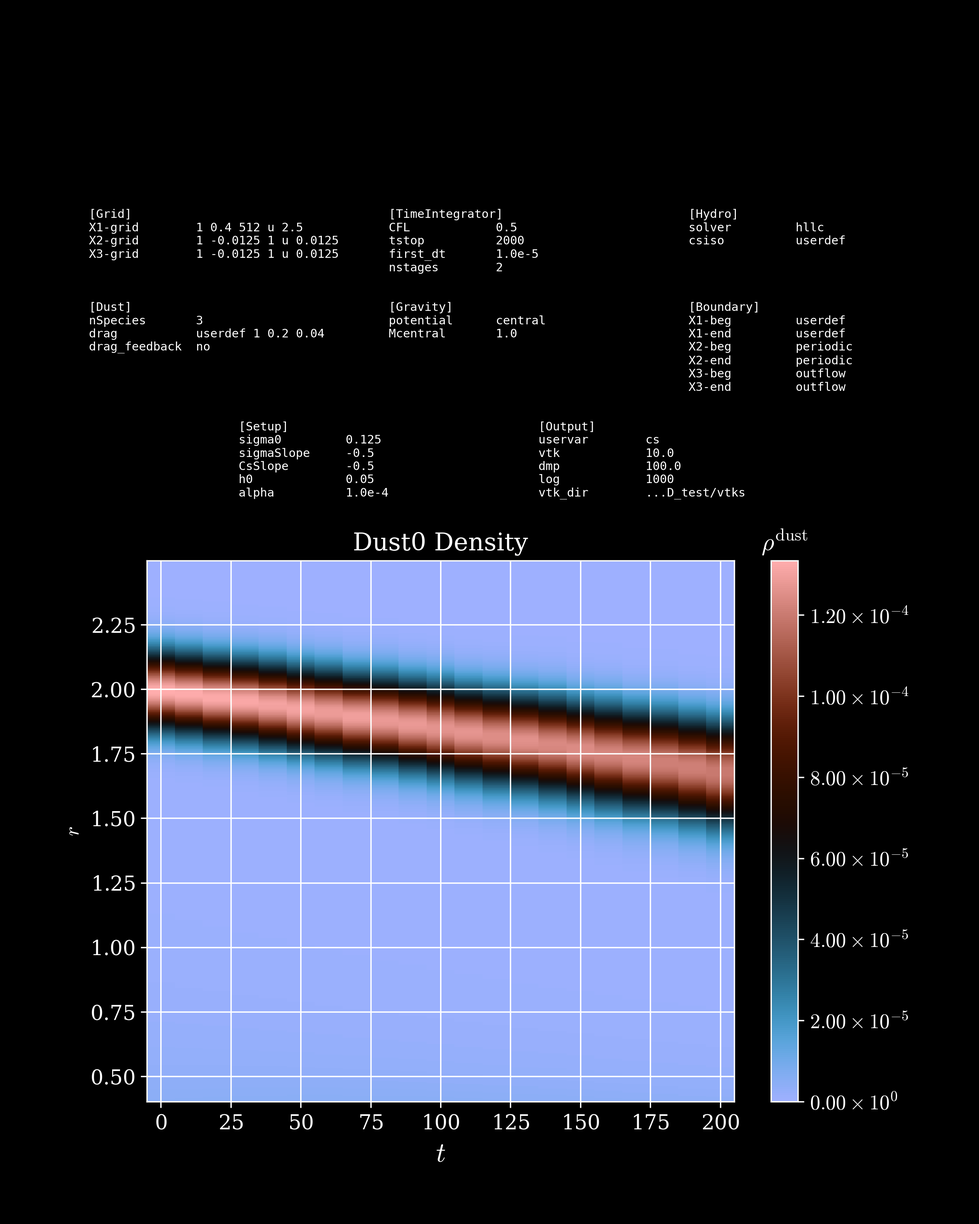
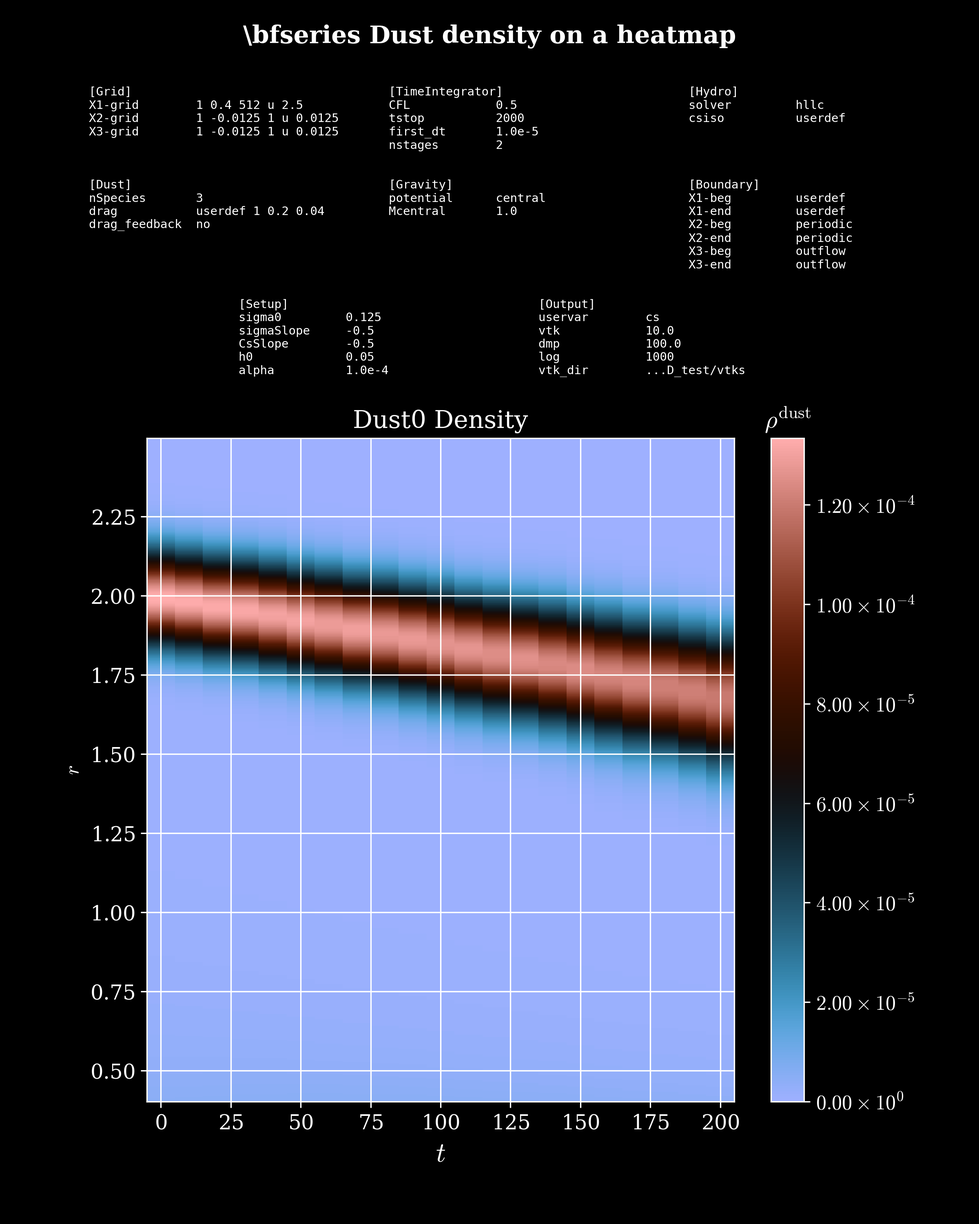
deploy: 61846a8da2c2e66f1332ff17975810d5fbedde24

diff --git a/searchindex.js b/searchindex.js
@@ -1,1 +1,1 @@
-Search.setIndex({"alltitles":{"1D fields":[[2,null]],"2D fields":[[3,null]],"API Reference":[[0,null]],"Adding a reference line":[[2,"adding-a-reference-line"]],"Examples Gallery":[[1,null]],"Idefix2Python":[[6,null]],"Particle quantities":[[4,null]],"Particle quantities over heatmap":[[5,null]],"Pipeline":[[0,"pipeline"]],"Quantity Types":[[0,"quantity-types"]],"RunContext":[[0,"runcontext"]]},"docnames":["api","examples","examples/run_1D","examples/run_2D","examples/run_particles","examples/run_particles_over","index"],"envversion":{"sphinx":66,"sphinx.domains.c":3,"sphinx.domains.changeset":1,"sphinx.domains.citation":1,"sphinx.domains.cpp":9,"sphinx.domains.index":1,"sphinx.domains.javascript":3,"sphinx.domains.math":2,"sphinx.domains.python":4,"sphinx.domains.rst":2,"sphinx.domains.std":2,"sphinx.ext.viewcode":1},"filenames":["api.rst","examples.rst","examples/run_1D.rst","examples/run_2D.rst","examples/run_particles.rst","examples/run_particles_over.rst","index.rst"],"indexentries":{"linemovie1d (class in idefix2python)":[[0,"idefix2python.LineMovie1D",false]],"mapmovie2d (class in idefix2python)":[[0,"idefix2python.MapMovie2D",false]],"partquantity (class in idefix2python)":[[0,"idefix2python.PartQuantity",false]],"pipeline (class in idefix2python)":[[0,"idefix2python.Pipeline",false]],"run() (idefix2python.pipeline method)":[[0,"idefix2python.Pipeline.run",false]],"runcontext (class in idefix2python)":[[0,"idefix2python.RunContext",false]],"spacetimeheatmap (class in idefix2python)":[[0,"idefix2python.SpaceTimeHeatmap",false]]},"objects":{"idefix2python":[[0,0,1,"","LineMovie1D"],[0,0,1,"","MapMovie2D"],[0,0,1,"","PartQuantity"],[0,0,1,"","Pipeline"],[0,0,1,"","RunContext"],[0,0,1,"","SpaceTimeHeatmap"]],"idefix2python.Pipeline":[[0,1,1,"","run"]]},"objnames":{"0":["py","class","Python class"],"1":["py","method","Python method"]},"objtypes":{"0":"py:class","1":"py:method"},"terms":{"1d":1,"1d_test":2,"1d_test_spacetimeheatmap":2,"1d_test_withref":2,"1e":3,"2d":[0,1],"2d_test":3,"5e":2,"A":[2,6],"By":[0,2,4,5],"Each":2,"For":[0,2],"Here":1,"In":5,"On":2,"The":[0,3],"There":3,"This":3,"__file__":[2,3,4,5],"_p":3,"activ":0,"active_direct":[0,4,5],"add":3,"addit":0,"also":3,"ambipolarwind":3,"analyt":2,"analytical_drift":4,"analytical_trajectori":[2,5],"analyz":1,"anim":0,"arg":0,"argument":[0,3],"astrophys":6,"automat":3,"avail":0,"azsettl":5,"base":0,"basic":1,"becaus":3,"berlin":0,"bound":3,"can":2,"class":0,"cmap":[0,3],"code":[3,6],"color":5,"colorbar":3,"colormap":[0,3],"com":3,"complex":1,"comput":3,"compute_mach_p":3,"config":3,"configpath":[0,3],"configur":0,"contain":[0,5],"context":0,"contour":[1,3],"contour_color":3,"cool":3,"coordin":0,"creat":3,"creation":0,"cs2":3,"current":[0,4,5],"custom":0,"custom_fields2d":3,"custom_linemovie1d":2,"custom_partquant":[4,5],"custom_spacetimeheatmap":2,"cyan":5,"data":[0,3,5],"data_test":[2,3,4,5],"def":[2,3,4,5],"default":[0,2,4,5],"demonstr":3,"densiti":[2,3],"depend":1,"detect":0,"differ":3,"dimens":[0,2],"direct":0,"directori":0,"draw":3,"dust":[2,5],"dust0":2,"dust0_rho":[2,5],"e":2,"end":0,"entir":2,"everi":0,"evolut":2,"exampl":[3,5,6],"expect":[0,2,4,5],"explor":1,"f":[0,2],"field":[0,1],"field1d":0,"figur":2,"file":[0,3],"first":0,"fix":3,"fluid":[2,4,5],"folder":[0,5],"frame":[0,2],"framefold":[0,2],"g":2,"galleri":6,"geometri":0,"github":[3,6],"good":3,"green":3,"handl":0,"heatmap":[0,1,2],"https":3,"idefix":[3,6],"idefix2python":[0,2,3,4,5],"import":[2,3,4,5],"includ":3,"inferno":3,"ini":0,"inipath":0,"initi":0,"input":0,"integr":[2,4],"json":3,"key":0,"keyword":0,"kwarg":0,"lagrangian":[0,1,4,5],"line":0,"linear":0,"linemovie1d":[0,2],"list":0,"locat":0,"log":3,"look":3,"ls":5,"lw":5,"m":3,"mach":3,"mach_p":3,"map":1,"mapmovie2d":[0,3],"master":3,"mathcal":3,"mathrm":[2,5],"maximum":3,"mhd":3,"might":3,"minimum":3,"movi":2,"movies1d":[0,2],"movies2d":[0,3],"name":0,"natur":1,"necessari":[4,5],"none":0,"norm":[0,3],"np":3,"number":3,"numpi":3,"object":[0,2],"one":2,"option":0,"output":[0,2,4,5,6],"overlay":0,"page":3,"paramet":0,"parent":[2,3,4,5],"part":5,"part_x1":4,"part_x3":5,"partfold":0,"particl":[0,1,3],"particles_over_test":5,"particles_over_test_spacetimeheatmap":5,"particles_test":4,"particles_test_timeseri":4,"partquant":[0,4,5],"pass":[2,3],"path":[0,2,3,4,5],"pathlib":[2,3,4,5],"pcolormesh":0,"pipelin":[1,2,3,4,5],"plot":0,"plot_coord":[0,2,3,4,5],"plot_kwarg":5,"png":[2,4,5],"poloid":3,"pray":0,"profil":1,"program":6,"project":0,"projectpath":[0,2,3,4,5],"projetpath":[2,4,5],"properti":0,"prs":3,"python":6,"quantiti":[1,3],"r":[2,3,4,5],"r0":[2,4],"radial":1,"ref_funct":[2,4,5],"render":[0,2],"result":3,"return":[2,3,4,5],"rho":[2,3,5],"root":0,"run":[0,2,3,4,5],"runcontext":[2,3,4,5],"runnam":0,"see":3,"setup":3,"show":2,"simul":[0,3],"singl":2,"solve_2nd_order_od":5,"sourc":0,"space":[0,1,2],"spacetimeheatmap":[0,2,5],"spatial":0,"specif":[0,2],"sqrt":3,"stokes0":[2,4,5],"store":0,"str":0,"streamlin":[0,1,3],"superimpos":1,"symbol":0,"t":[0,1,2,5],"t_array":4,"t_i":2,"taken":3,"task":[2,3,4,5],"test":3,"thing":0,"three":1,"time":[0,1,2],"titl":[2,3],"trace_ov":[0,5],"track":0,"trajectori":[0,1,2],"tree":3,"two":3,"uniqu":0,"updat":0,"use":1,"util":[2,4,5],"valu":3,"veri":3,"visual":[1,3],"vizual":6,"vmax":[0,2,3],"vmin":[0,2,3],"vrdrift":[2,4],"vtk":[0,5,6],"vtks":[0,2,4,5],"vx1":3,"vx2":3,"want":3,"way":[2,3],"will":0,"x":[0,1,2,4],"z":[0,5],"z0":5,"z_part":5,"zoom":0},"titles":["API Reference","Examples Gallery","1D fields","2D fields","Particle quantities","Particle quantities over heatmap","Idefix2Python"],"titleterms":{"1d":2,"2d":3,"add":2,"api":0,"exampl":1,"field":[2,3],"galleri":1,"heatmap":5,"idefix2python":6,"line":2,"particl":[4,5],"pipelin":0,"quantiti":[0,4,5],"refer":[0,2],"runcontext":0,"type":0}})
+Search.setIndex({"alltitles":{"1D fields":[[2,null]],"2D fields":[[3,null]],"API Reference":[[0,null]],"Adding a reference line":[[2,"adding-a-reference-line"]],"Examples Gallery":[[1,null]],"Idefix2Python":[[6,null]],"Particle quantities":[[4,null]],"Particle quantities over heatmap":[[5,null]],"Pipeline":[[0,"pipeline"]],"Quantity Types":[[0,"quantity-types"]],"RunContext":[[0,"runcontext"]]},"docnames":["api","examples","examples/run_1D","examples/run_2D","examples/run_particles","examples/run_particles_over","index"],"envversion":{"sphinx":66,"sphinx.domains.c":3,"sphinx.domains.changeset":1,"sphinx.domains.citation":1,"sphinx.domains.cpp":9,"sphinx.domains.index":1,"sphinx.domains.javascript":3,"sphinx.domains.math":2,"sphinx.domains.python":4,"sphinx.domains.rst":2,"sphinx.domains.std":2,"sphinx.ext.viewcode":1},"filenames":["api.rst","examples.rst","examples/run_1D.rst","examples/run_2D.rst","examples/run_particles.rst","examples/run_particles_over.rst","index.rst"],"indexentries":{"linemovie1d (class in idefix2python)":[[0,"idefix2python.LineMovie1D",false]],"mapmovie2d (class in idefix2python)":[[0,"idefix2python.MapMovie2D",false]],"partquantity (class in idefix2python)":[[0,"idefix2python.PartQuantity",false]],"pipeline (class in idefix2python)":[[0,"idefix2python.Pipeline",false]],"run() (idefix2python.pipeline method)":[[0,"idefix2python.Pipeline.run",false]],"runcontext (class in idefix2python)":[[0,"idefix2python.RunContext",false]],"spacetimeheatmap (class in idefix2python)":[[0,"idefix2python.SpaceTimeHeatmap",false]]},"objects":{"idefix2python":[[0,0,1,"","LineMovie1D"],[0,0,1,"","MapMovie2D"],[0,0,1,"","PartQuantity"],[0,0,1,"","Pipeline"],[0,0,1,"","RunContext"],[0,0,1,"","SpaceTimeHeatmap"]],"idefix2python.Pipeline":[[0,1,1,"","run"]]},"objnames":{"0":["py","class","Python class"],"1":["py","method","Python method"]},"objtypes":{"0":"py:class","1":"py:method"},"terms":{"1d":1,"1d_test":2,"1d_test_spacetimeheatmap":2,"1d_test_withref":2,"1e":3,"2d":[0,1],"2d_test":3,"5e":2,"A":[2,4,6],"By":[0,2,4,5],"Each":2,"For":[0,2],"Here":1,"In":5,"On":2,"The":[0,3],"There":3,"This":3,"__file__":[2,3,4,5],"_p":3,"activ":0,"active_direct":[0,4,5],"add":3,"addit":0,"also":3,"ambipolarwind":3,"analyt":[2,4,5],"analytical_drift":4,"analytical_trajectori":[2,5],"analyz":1,"anim":0,"arg":0,"argument":[0,3],"astrophys":6,"automat":3,"avail":0,"azsettl":5,"base":0,"basic":1,"beauti":3,"becaus":3,"berlin":0,"bound":3,"can":2,"class":0,"cmap":[0,3],"code":[3,6],"color":5,"colorbar":3,"colormap":[0,3],"com":3,"complex":1,"comput":3,"compute_mach_p":3,"config":3,"configpath":[0,3],"configur":0,"contain":[0,5],"context":0,"contour":[1,3],"contour_color":3,"cool":3,"coordin":0,"creat":3,"creation":0,"cs2":3,"current":[0,4,5],"custom":0,"custom_fields2d":3,"custom_linemovie1d":2,"custom_partquant":[4,5],"custom_spacetimeheatmap":2,"cyan":5,"data":[0,3,5],"data_test":[2,3,4,5],"def":[2,3,4,5],"default":[0,2,4,5],"demonstr":3,"densiti":[2,3,5],"depend":1,"detect":0,"differ":3,"dimens":[0,2],"direct":0,"directori":0,"draw":3,"dust":[2,5],"dust0":2,"dust0_rho":[2,5],"e":2,"end":0,"entir":2,"everi":0,"evolut":[2,4],"exampl":[3,5,6],"expect":[0,2,4,5],"explor":1,"f":[0,2],"field":[0,1],"field1d":0,"figur":2,"file":[0,3],"first":0,"fix":3,"fluid":[2,4,5],"folder":[0,5],"frame":[0,2],"framefold":[0,2],"g":2,"galleri":6,"geometri":0,"github":[3,6],"good":3,"green":3,"handl":0,"heatmap":[0,1,2,3],"https":3,"idefix":[3,6],"idefix2python":[0,2,3,4,5],"import":[2,3,4,5],"includ":3,"inferno":3,"ini":0,"inipath":0,"initi":0,"input":0,"integr":[2,4],"json":3,"key":0,"keyword":0,"kwarg":0,"lagrangian":[0,1,4,5],"line":0,"linear":0,"linemovie1d":[0,2],"list":0,"locat":0,"log":3,"look":3,"ls":5,"lw":5,"m":3,"mach":3,"mach_p":3,"map":1,"mapmovie2d":[0,3],"master":3,"mathcal":3,"mathrm":[2,5],"maximum":3,"mhd":3,"might":3,"minimum":3,"movi":2,"movies1d":[0,2],"movies2d":[0,3],"name":0,"natur":1,"necessari":[4,5],"none":0,"norm":[0,3],"np":3,"number":3,"numpi":3,"object":[0,2],"one":2,"option":0,"output":[0,2,4,5,6],"overlay":0,"page":3,"paramet":0,"parent":[2,3,4,5],"part":5,"part_x1":4,"part_x3":5,"partfold":0,"particl":[0,1,3],"particles_over_test":5,"particles_over_test_spacetimeheatmap":5,"particles_test":4,"particles_test_timeseri":4,"partquant":[0,4,5],"pass":[2,3],"path":[0,2,3,4,5],"pathlib":[2,3,4,5],"pcolormesh":0,"pipelin":[1,2,3,4,5],"plot":0,"plot_coord":[0,2,3,4,5],"plot_kwarg":5,"png":[2,4,5],"poloid":3,"pray":0,"presureless":5,"profil":[1,2],"program":6,"project":0,"projectpath":[0,2,3,4,5],"projetpath":[2,4,5],"properti":0,"prs":3,"python":6,"quantiti":[1,3],"r":[2,3,4,5],"r0":[2,4],"radial":[1,4],"ref_funct":[2,4,5],"render":[0,2],"result":3,"return":[2,3,4,5],"rho":[2,3,5],"root":0,"run":[0,2,3,4,5],"runcontext":[2,3,4,5],"runnam":0,"see":3,"setup":3,"show":2,"simul":[0,3],"singl":2,"solve_2nd_order_od":5,"sourc":0,"space":[0,1,2],"spacetimeheatmap":[0,2,5],"spatial":0,"specif":[0,2],"sqrt":3,"stokes0":[2,4,5],"store":0,"str":0,"streamlin":[0,1,3],"superimpos":1,"suptitl":[2,3,4,5],"symbol":0,"t":[0,1,2,5],"t_array":4,"t_i":2,"taken":3,"task":[2,3,4,5],"test":3,"thing":0,"three":1,"time":[0,1,2],"titl":[2,3],"trace_ov":[0,5],"track":0,"trajectori":[0,1,2,4,5],"tree":3,"two":3,"uniqu":0,"updat":0,"use":1,"util":[2,4,5],"valu":3,"veri":3,"visual":[1,3],"vizual":6,"vmax":[0,2,3],"vmin":[0,2,3],"vrdrift":[2,4],"vtk":[0,5,6],"vtks":[0,2,4,5],"vx1":3,"vx2":3,"want":3,"way":[2,3],"will":0,"x":[0,1,2],"z":[0,5],"z0":5,"z_part":5,"zoom":0},"titles":["API Reference","Examples Gallery","1D fields","2D fields","Particle quantities","Particle quantities over heatmap","Idefix2Python"],"titleterms":{"1d":2,"2d":3,"add":2,"api":0,"exampl":1,"field":[2,3],"galleri":1,"heatmap":5,"idefix2python":6,"line":2,"particl":[4,5],"pipelin":0,"quantiti":[0,4,5],"refer":[0,2],"runcontext":0,"type":0}})

diff --git a/examples/run_1D.html b/examples/run_1D.html
@@ -145,10 +145,11 @@ Movie 1D</div>
 </span><span data-line="16"><span class="linenos">16</span>    <span class="p">)</span>
 </span><span data-line="17"><span class="linenos">17</span><span class="p">]</span>
 </span><span data-line="18"><span class="linenos">18</span>
-</span><span data-line="19"><span class="linenos">19</span><span class="n">runContext</span> <span class="o">=</span> <span class="n">RunContext</span><span class="p">(</span><span class="n">task</span><span class="p">,</span> <span class="n">projectPath</span><span class="p">)</span>
-</span><span data-line="20"><span class="linenos">20</span><span class="n">pipeline</span> <span class="o">=</span> <span class="n">Pipeline</span><span class="p">(</span><span class="n">runContext</span><span class="p">,</span> <span class="n">movies1D</span><span class="o">=</span><span class="n">custom_LineMovie1Ds</span><span class="p">)</span>
-</span><span data-line="21"><span class="linenos">21</span>
-</span><span data-line="22"><span class="linenos">22</span><span class="n">pipeline</span><span class="o">.</span><span class="n">run</span><span class="p">()</span>
+</span><span data-line="19"><span class="linenos">19</span><span class="n">LineMovie1D</span><span class="o">.</span><span class="n">suptitle</span> <span class="o">=</span> <span class="s2">&quot;Evolution of the density profile&quot;</span>
+</span><span data-line="20"><span class="linenos">20</span><span class="n">runContext</span> <span class="o">=</span> <span class="n">RunContext</span><span class="p">(</span><span class="n">task</span><span class="p">,</span> <span class="n">projectPath</span><span class="p">)</span>
+</span><span data-line="21"><span class="linenos">21</span><span class="n">pipeline</span> <span class="o">=</span> <span class="n">Pipeline</span><span class="p">(</span><span class="n">runContext</span><span class="p">,</span> <span class="n">movies1D</span><span class="o">=</span><span class="n">custom_LineMovie1Ds</span><span class="p">)</span>
+</span><span data-line="22"><span class="linenos">22</span>
+</span><span data-line="23"><span class="linenos">23</span><span class="n">pipeline</span><span class="o">.</span><span class="n">run</span><span class="p">()</span>
 </span></pre></div>
 </div>
 <div  class="sphinx-contrib-video-container align-left"><video autoplay="True" controls="True" loop="True" muted="True" preload="auto" width="600"><source src="../_images/1D_test.mp4" type="video/mp4"></video></div></div>
@@ -176,10 +177,10 @@ Space-Time Heatmap</div>
 </span><span data-line="14"><span class="linenos">14</span>    <span class="p">)</span>
 </span><span data-line="15"><span class="linenos">15</span><span class="p">]</span>
 </span><span data-line="16"><span class="linenos">16</span>
-</span><span data-line="17"><span class="linenos">17</span><span class="n">runContext</span> <span class="o">=</span> <span class="n">RunContext</span><span class="p">(</span><span class="n">task</span><span class="p">,</span> <span class="n">projectPath</span><span class="p">)</span>
+</span><span data-line="17"><span class="linenos">17</span><span class="n">SpaceTimeHeatmap</span><span class="o">.</span><span class="n">suptitle</span> <span class="o">=</span> <span class="s2">&quot;Dust density on a heatmap&quot;</span>
 </span><span data-line="18"><span class="linenos">18</span>
-</span><span data-line="19"><span class="linenos">19</span><span class="n">pipeline</span> <span class="o">=</span> <span class="n">Pipeline</span><span class="p">(</span><span class="n">runContext</span><span class="p">,</span> <span class="n">spaceTimeHeatmaps</span><span class="o">=</span><span class="n">custom_spaceTimeHeatmaps</span><span class="p">)</span>
-</span><span data-line="20"><span class="linenos">20</span>
+</span><span data-line="19"><span class="linenos">19</span><span class="n">runContext</span> <span class="o">=</span> <span class="n">RunContext</span><span class="p">(</span><span class="n">task</span><span class="p">,</span> <span class="n">projectPath</span><span class="p">)</span>
+</span><span data-line="20"><span class="linenos">20</span><span class="n">pipeline</span> <span class="o">=</span> <span class="n">Pipeline</span><span class="p">(</span><span class="n">runContext</span><span class="p">,</span> <span class="n">spaceTimeHeatmaps</span><span class="o">=</span><span class="n">custom_spaceTimeHeatmaps</span><span class="p">)</span>
 </span><span data-line="21"><span class="linenos">21</span><span class="n">pipeline</span><span class="o">.</span><span class="n">run</span><span class="p">()</span>
 </span></pre></div>
 </div>
@@ -219,17 +220,19 @@ Space-Time Heatmap</div>
 </span><span data-line="24"><span class="linenos">24</span>    <span class="p">)</span>
 </span><span data-line="25"><span class="linenos">25</span><span class="p">]</span>
 </span><span data-line="26"><span class="linenos">26</span>
-</span><span data-line="27"><span class="linenos">27</span><span class="n">runContext</span> <span class="o">=</span> <span class="n">RunContext</span><span class="p">(</span>
-</span><span data-line="28"><span class="linenos">28</span>    <span class="n">task</span><span class="p">,</span>
-</span><span data-line="29"><span class="linenos">29</span>    <span class="n">projectPath</span><span class="p">,</span>
-</span><span data-line="30"><span class="linenos">30</span>    <span class="n">frameFolder</span><span class="o">=</span><span class="s2">&quot;1D_test_withref&quot;</span><span class="p">,</span>
-</span><span data-line="31"><span class="linenos">31</span><span class="p">)</span>
-</span><span data-line="32"><span class="linenos">32</span><span class="n">pipeline</span> <span class="o">=</span> <span class="n">Pipeline</span><span class="p">(</span>
-</span><span data-line="33"><span class="linenos">33</span>    <span class="n">runContext</span><span class="p">,</span>
-</span><span data-line="34"><span class="linenos">34</span>    <span class="n">spaceTimeHeatmaps</span><span class="o">=</span><span class="n">custom_spaceTimeHeatmaps</span><span class="p">,</span>
-</span><span data-line="35"><span class="linenos">35</span><span class="p">)</span>
-</span><span data-line="36"><span class="linenos">36</span>
-</span><span data-line="37"><span class="linenos">37</span><span class="n">pipeline</span><span class="o">.</span><span class="n">run</span><span class="p">()</span>
+</span><span data-line="27"><span class="linenos">27</span><span class="n">SpaceTimeHeatmap</span><span class="o">.</span><span class="n">suptitle</span> <span class="o">=</span> <span class="s2">&quot;Dust density on heatmap, with an analytical trajectory&quot;</span>
+</span><span data-line="28"><span class="linenos">28</span>
+</span><span data-line="29"><span class="linenos">29</span><span class="n">runContext</span> <span class="o">=</span> <span class="n">RunContext</span><span class="p">(</span>
+</span><span data-line="30"><span class="linenos">30</span>    <span class="n">task</span><span class="p">,</span>
+</span><span data-line="31"><span class="linenos">31</span>    <span class="n">projectPath</span><span class="p">,</span>
+</span><span data-line="32"><span class="linenos">32</span>    <span class="n">frameFolder</span><span class="o">=</span><span class="s2">&quot;1D_test_withref&quot;</span><span class="p">,</span>
+</span><span data-line="33"><span class="linenos">33</span><span class="p">)</span>
+</span><span data-line="34"><span class="linenos">34</span><span class="n">pipeline</span> <span class="o">=</span> <span class="n">Pipeline</span><span class="p">(</span>
+</span><span data-line="35"><span class="linenos">35</span>    <span class="n">runContext</span><span class="p">,</span>
+</span><span data-line="36"><span class="linenos">36</span>    <span class="n">spaceTimeHeatmaps</span><span class="o">=</span><span class="n">custom_spaceTimeHeatmaps</span><span class="p">,</span>
+</span><span data-line="37"><span class="linenos">37</span><span class="p">)</span>
+</span><span data-line="38"><span class="linenos">38</span>
+</span><span data-line="39"><span class="linenos">39</span><span class="n">pipeline</span><span class="o">.</span><span class="n">run</span><span class="p">()</span>
 </span></pre></div>
 </div>
 <figure class="align-center" id="id1">

diff --git a/examples/run_2D.html b/examples/run_2D.html
@@ -153,9 +153,10 @@ Automatic Bounds</label><div class="sd-tab-content docutils">
 </span><span data-line="30"><span class="linenos">30</span>        <span class="n">contour_color</span><span class="o">=</span><span class="s2">&quot;green&quot;</span><span class="p">,</span>
 </span><span data-line="31"><span class="linenos">31</span>    <span class="p">),</span>
 </span><span data-line="32"><span class="linenos">32</span><span class="p">]</span>
-</span><span data-line="33"><span class="linenos">33</span><span class="n">runContext</span> <span class="o">=</span> <span class="n">RunContext</span><span class="p">(</span><span class="n">task</span><span class="p">,</span> <span class="n">projectPath</span><span class="p">)</span>
-</span><span data-line="34"><span class="linenos">34</span><span class="n">pipeline</span> <span class="o">=</span> <span class="n">Pipeline</span><span class="p">(</span><span class="n">runContext</span><span class="p">,</span> <span class="n">movies2D</span><span class="o">=</span><span class="n">custom_fields2D</span><span class="p">)</span>
-</span><span data-line="35"><span class="linenos">35</span><span class="n">pipeline</span><span class="o">.</span><span class="n">run</span><span class="p">()</span>
+</span><span data-line="33"><span class="linenos">33</span><span class="n">MapMovie2D</span><span class="o">.</span><span class="n">suptitle</span> <span class="o">=</span> <span class="s2">&quot;Density and Mach number on a heatmap&quot;</span>
+</span><span data-line="34"><span class="linenos">34</span><span class="n">runContext</span> <span class="o">=</span> <span class="n">RunContext</span><span class="p">(</span><span class="n">task</span><span class="p">,</span> <span class="n">projectPath</span><span class="p">)</span>
+</span><span data-line="35"><span class="linenos">35</span><span class="n">pipeline</span> <span class="o">=</span> <span class="n">Pipeline</span><span class="p">(</span><span class="n">runContext</span><span class="p">,</span> <span class="n">movies2D</span><span class="o">=</span><span class="n">custom_fields2D</span><span class="p">)</span>
+</span><span data-line="36"><span class="linenos">36</span><span class="n">pipeline</span><span class="o">.</span><span class="n">run</span><span class="p">()</span>
 </span></pre></div>
 </div>
 <figure  class="sphinx-contrib-video-container align-left"><video autoplay="True" controls="True" loop="True" muted="True" preload="auto" width="100%"><source src="../_images/2D_test.mp4" type="video/mp4"></video><figcaption class="align-center"><p style="text-align: left; display:inline-block"><span class="caption-text">2D_test.mp4</span></p></figcaption></figure><p>The result is not very good because the pipeline automatically computed the bounds of the colorbar by looking at the minimum/maximum values all over the simulation. Also, you might want a different colormap.</p>
@@ -201,9 +202,10 @@ Fixed Bounds (config.json)</label><div class="sd-tab-content docutils">
 </span><span data-line="31"><span class="linenos">31</span>        <span class="n">contour_color</span><span class="o">=</span><span class="s2">&quot;green&quot;</span><span class="p">,</span>
 </span><span data-line="32"><span class="linenos">32</span>    <span class="p">),</span>
 </span><span data-line="33"><span class="linenos">33</span><span class="p">]</span>
-</span><span data-line="34"><span class="linenos">34</span><span class="n">runContext</span> <span class="o">=</span> <span class="n">RunContext</span><span class="p">(</span><span class="n">task</span><span class="p">,</span> <span class="n">projectPath</span><span class="p">,</span> <span class="n">configPath</span><span class="o">=</span><span class="n">configPath</span><span class="p">)</span>
-</span><span data-line="35"><span class="linenos">35</span><span class="n">pipeline</span> <span class="o">=</span> <span class="n">Pipeline</span><span class="p">(</span><span class="n">runContext</span><span class="p">,</span> <span class="n">movies2D</span><span class="o">=</span><span class="n">custom_fields2D</span><span class="p">)</span>
-</span><span data-line="36"><span class="linenos">36</span><span class="n">pipeline</span><span class="o">.</span><span class="n">run</span><span class="p">()</span>
+</span><span data-line="34"><span class="linenos">34</span><span class="n">MapMovie2D</span><span class="o">.</span><span class="n">suptitle</span> <span class="o">=</span> <span class="s2">&quot;Density and Mach number on a beautiful heatmap&quot;</span>
+</span><span data-line="35"><span class="linenos">35</span><span class="n">runContext</span> <span class="o">=</span> <span class="n">RunContext</span><span class="p">(</span><span class="n">task</span><span class="p">,</span> <span class="n">projectPath</span><span class="p">,</span> <span class="n">configPath</span><span class="o">=</span><span class="n">configPath</span><span class="p">)</span>
+</span><span data-line="36"><span class="linenos">36</span><span class="n">pipeline</span> <span class="o">=</span> <span class="n">Pipeline</span><span class="p">(</span><span class="n">runContext</span><span class="p">,</span> <span class="n">movies2D</span><span class="o">=</span><span class="n">custom_fields2D</span><span class="p">)</span>
+</span><span data-line="37"><span class="linenos">37</span><span class="n">pipeline</span><span class="o">.</span><span class="n">run</span><span class="p">()</span>
 </span></pre></div>
 </div>
 <div class="literal-block-wrapper docutils container" id="id1">

diff --git a/examples/run_particles.html b/examples/run_particles.html
@@ -134,20 +134,21 @@ data-aria-dark="Switch to auto color mode">
 </span><span data-line="17"><span class="linenos">17</span><span class="n">custom_partQuantities</span> <span class="o">=</span> <span class="p">[</span>
 </span><span data-line="18"><span class="linenos">18</span>    <span class="n">PartQuantity</span><span class="p">(</span>
 </span><span data-line="19"><span class="linenos">19</span>        <span class="s2">&quot;PART_X1&quot;</span><span class="p">,</span>
-</span><span data-line="20"><span class="linenos">20</span>        <span class="sa">r</span><span class="s2">&quot;$x$&quot;</span><span class="p">,</span>
+</span><span data-line="20"><span class="linenos">20</span>        <span class="sa">r</span><span class="s2">&quot;$r$&quot;</span><span class="p">,</span>
 </span><span data-line="21"><span class="linenos">21</span>        <span class="n">plot_coords</span><span class="o">=</span><span class="p">[</span><span class="mi">0</span><span class="p">,</span> <span class="mi">0</span><span class="p">],</span>
 </span><span data-line="22"><span class="linenos">22</span>        <span class="n">ref_function</span><span class="o">=</span><span class="n">analytical_drift</span><span class="p">,</span>
 </span><span data-line="23"><span class="linenos">23</span>    <span class="p">)</span>
 </span><span data-line="24"><span class="linenos">24</span><span class="p">]</span>
-</span><span data-line="25"><span class="linenos">25</span>
-</span><span data-line="26"><span class="linenos">26</span><span class="n">runContext</span> <span class="o">=</span> <span class="n">RunContext</span><span class="p">(</span>
-</span><span data-line="27"><span class="linenos">27</span>    <span class="n">task</span><span class="p">,</span>
-</span><span data-line="28"><span class="linenos">28</span>    <span class="n">projectPath</span><span class="p">,</span>
-</span><span data-line="29"><span class="linenos">29</span>    <span class="n">active_directions</span><span class="o">=</span><span class="p">[</span><span class="mi">0</span><span class="p">],</span>  <span class="c1"># currently necessary for lagrangian particles.)</span>
-</span><span data-line="30"><span class="linenos">30</span><span class="p">)</span>
-</span><span data-line="31"><span class="linenos">31</span><span class="n">pipeline</span> <span class="o">=</span> <span class="n">Pipeline</span><span class="p">(</span><span class="n">runContext</span><span class="p">,</span> <span class="n">partQuantities</span><span class="o">=</span><span class="n">custom_partQuantities</span><span class="p">)</span>
-</span><span data-line="32"><span class="linenos">32</span>
-</span><span data-line="33"><span class="linenos">33</span><span class="n">pipeline</span><span class="o">.</span><span class="n">run</span><span class="p">()</span>
+</span><span data-line="25"><span class="linenos">25</span><span class="n">PartQuantity</span><span class="o">.</span><span class="n">suptitle</span> <span class="o">=</span> <span class="s2">&quot;A particle radial evolution, with an analytical trajectory&quot;</span>
+</span><span data-line="26"><span class="linenos">26</span>
+</span><span data-line="27"><span class="linenos">27</span><span class="n">runContext</span> <span class="o">=</span> <span class="n">RunContext</span><span class="p">(</span>
+</span><span data-line="28"><span class="linenos">28</span>    <span class="n">task</span><span class="p">,</span>
+</span><span data-line="29"><span class="linenos">29</span>    <span class="n">projectPath</span><span class="p">,</span>
+</span><span data-line="30"><span class="linenos">30</span>    <span class="n">active_directions</span><span class="o">=</span><span class="p">[</span><span class="mi">0</span><span class="p">],</span>  <span class="c1"># currently necessary for lagrangian particles.)</span>
+</span><span data-line="31"><span class="linenos">31</span><span class="p">)</span>
+</span><span data-line="32"><span class="linenos">32</span><span class="n">pipeline</span> <span class="o">=</span> <span class="n">Pipeline</span><span class="p">(</span><span class="n">runContext</span><span class="p">,</span> <span class="n">partQuantities</span><span class="o">=</span><span class="n">custom_partQuantities</span><span class="p">)</span>
+</span><span data-line="33"><span class="linenos">33</span>
+</span><span data-line="34"><span class="linenos">34</span><span class="n">pipeline</span><span class="o">.</span><span class="n">run</span><span class="p">()</span>
 </span></pre></div>
 </div>
 <figure class="align-center" id="id1">

diff --git a/examples/run_particles_over.html b/examples/run_particles_over.html
@@ -149,18 +149,23 @@ data-aria-dark="Switch to auto color mode">
 </span><span data-line="32"><span class="linenos">32</span>        <span class="n">ref_function</span><span class="o">=</span><span class="n">analytical_trajectory</span><span class="p">,</span>
 </span><span data-line="33"><span class="linenos">33</span>    <span class="p">)</span>
 </span><span data-line="34"><span class="linenos">34</span><span class="p">]</span>
-</span><span data-line="35"><span class="linenos">35</span><span class="n">runContext</span> <span class="o">=</span> <span class="n">RunContext</span><span class="p">(</span>
-</span><span data-line="36"><span class="linenos">36</span>    <span class="n">task</span><span class="p">,</span>
-</span><span data-line="37"><span class="linenos">37</span>    <span class="n">projectPath</span><span class="p">,</span>
-</span><span data-line="38"><span class="linenos">38</span>    <span class="n">active_directions</span><span class="o">=</span><span class="p">[</span><span class="mi">2</span><span class="p">],</span>  <span class="c1"># currently necessary for lagrangian particles.)</span>
-</span><span data-line="39"><span class="linenos">39</span><span class="p">)</span>
-</span><span data-line="40"><span class="linenos">40</span><span class="n">pipeline</span> <span class="o">=</span> <span class="n">Pipeline</span><span class="p">(</span>
-</span><span data-line="41"><span class="linenos">41</span>    <span class="n">runContext</span><span class="p">,</span>
-</span><span data-line="42"><span class="linenos">42</span>    <span class="n">partQuantities</span><span class="o">=</span><span class="n">custom_partQuantities</span><span class="p">,</span>
-</span><span data-line="43"><span class="linenos">43</span>    <span class="n">spaceTimeHeatmaps</span><span class="o">=</span><span class="n">SpaceTimeHeatmaps</span><span class="p">,</span>
+</span><span data-line="35"><span class="linenos">35</span>
+</span><span data-line="36"><span class="linenos">36</span><span class="n">SpaceTimeHeatmap</span><span class="o">.</span><span class="n">suptitle</span> <span class="o">=</span> <span class="p">(</span>
+</span><span data-line="37"><span class="linenos">37</span>    <span class="s2">&quot;Dust density: presureless fluid, particles, and an analytical trajectory&quot;</span>
+</span><span data-line="38"><span class="linenos">38</span><span class="p">)</span>
+</span><span data-line="39"><span class="linenos">39</span>
+</span><span data-line="40"><span class="linenos">40</span><span class="n">runContext</span> <span class="o">=</span> <span class="n">RunContext</span><span class="p">(</span>
+</span><span data-line="41"><span class="linenos">41</span>    <span class="n">task</span><span class="p">,</span>
+</span><span data-line="42"><span class="linenos">42</span>    <span class="n">projectPath</span><span class="p">,</span>
+</span><span data-line="43"><span class="linenos">43</span>    <span class="n">active_directions</span><span class="o">=</span><span class="p">[</span><span class="mi">2</span><span class="p">],</span>  <span class="c1"># currently necessary for lagrangian particles.)</span>
 </span><span data-line="44"><span class="linenos">44</span><span class="p">)</span>
-</span><span data-line="45"><span class="linenos">45</span>
-</span><span data-line="46"><span class="linenos">46</span><span class="n">pipeline</span><span class="o">.</span><span class="n">run</span><span class="p">()</span>
+</span><span data-line="45"><span class="linenos">45</span><span class="n">pipeline</span> <span class="o">=</span> <span class="n">Pipeline</span><span class="p">(</span>
+</span><span data-line="46"><span class="linenos">46</span>    <span class="n">runContext</span><span class="p">,</span>
+</span><span data-line="47"><span class="linenos">47</span>    <span class="n">partQuantities</span><span class="o">=</span><span class="n">custom_partQuantities</span><span class="p">,</span>
+</span><span data-line="48"><span class="linenos">48</span>    <span class="n">spaceTimeHeatmaps</span><span class="o">=</span><span class="n">SpaceTimeHeatmaps</span><span class="p">,</span>
+</span><span data-line="49"><span class="linenos">49</span><span class="p">)</span>
+</span><span data-line="50"><span class="linenos">50</span>
+</span><span data-line="51"><span class="linenos">51</span><span class="n">pipeline</span><span class="o">.</span><span class="n">run</span><span class="p">()</span>
 </span></pre></div>
 </div>
 <figure class="align-center" id="id1">
